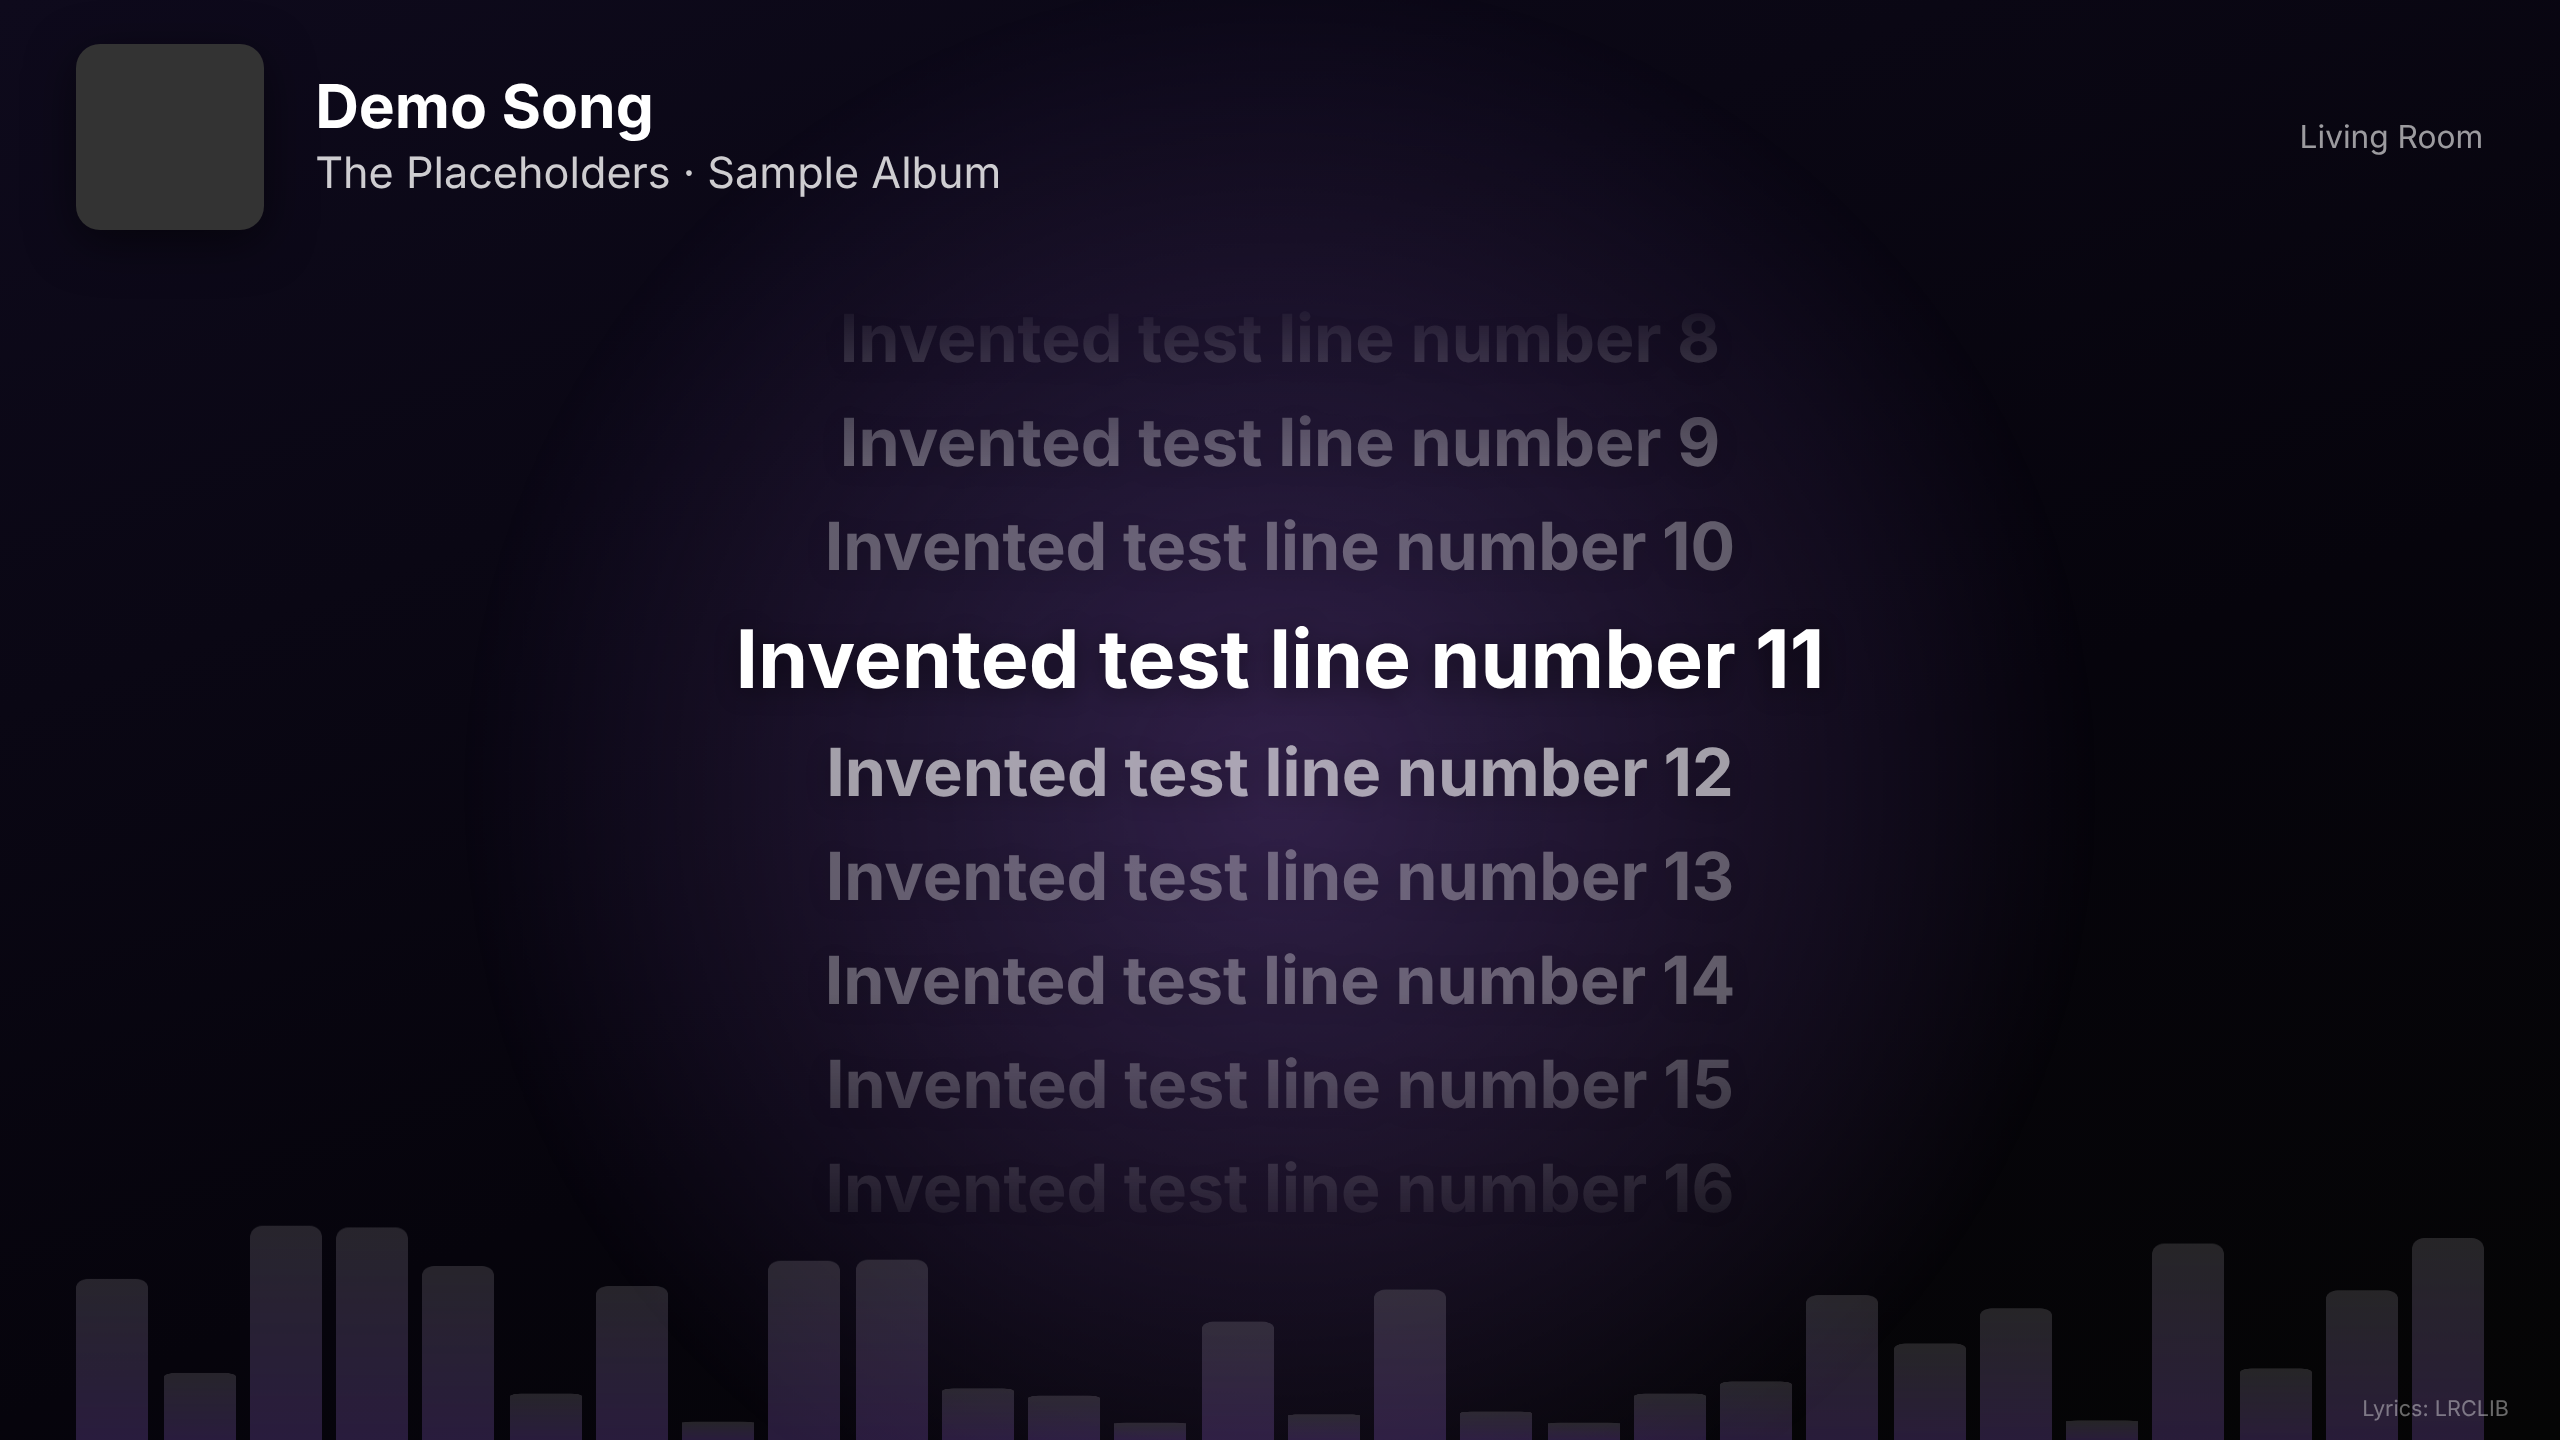
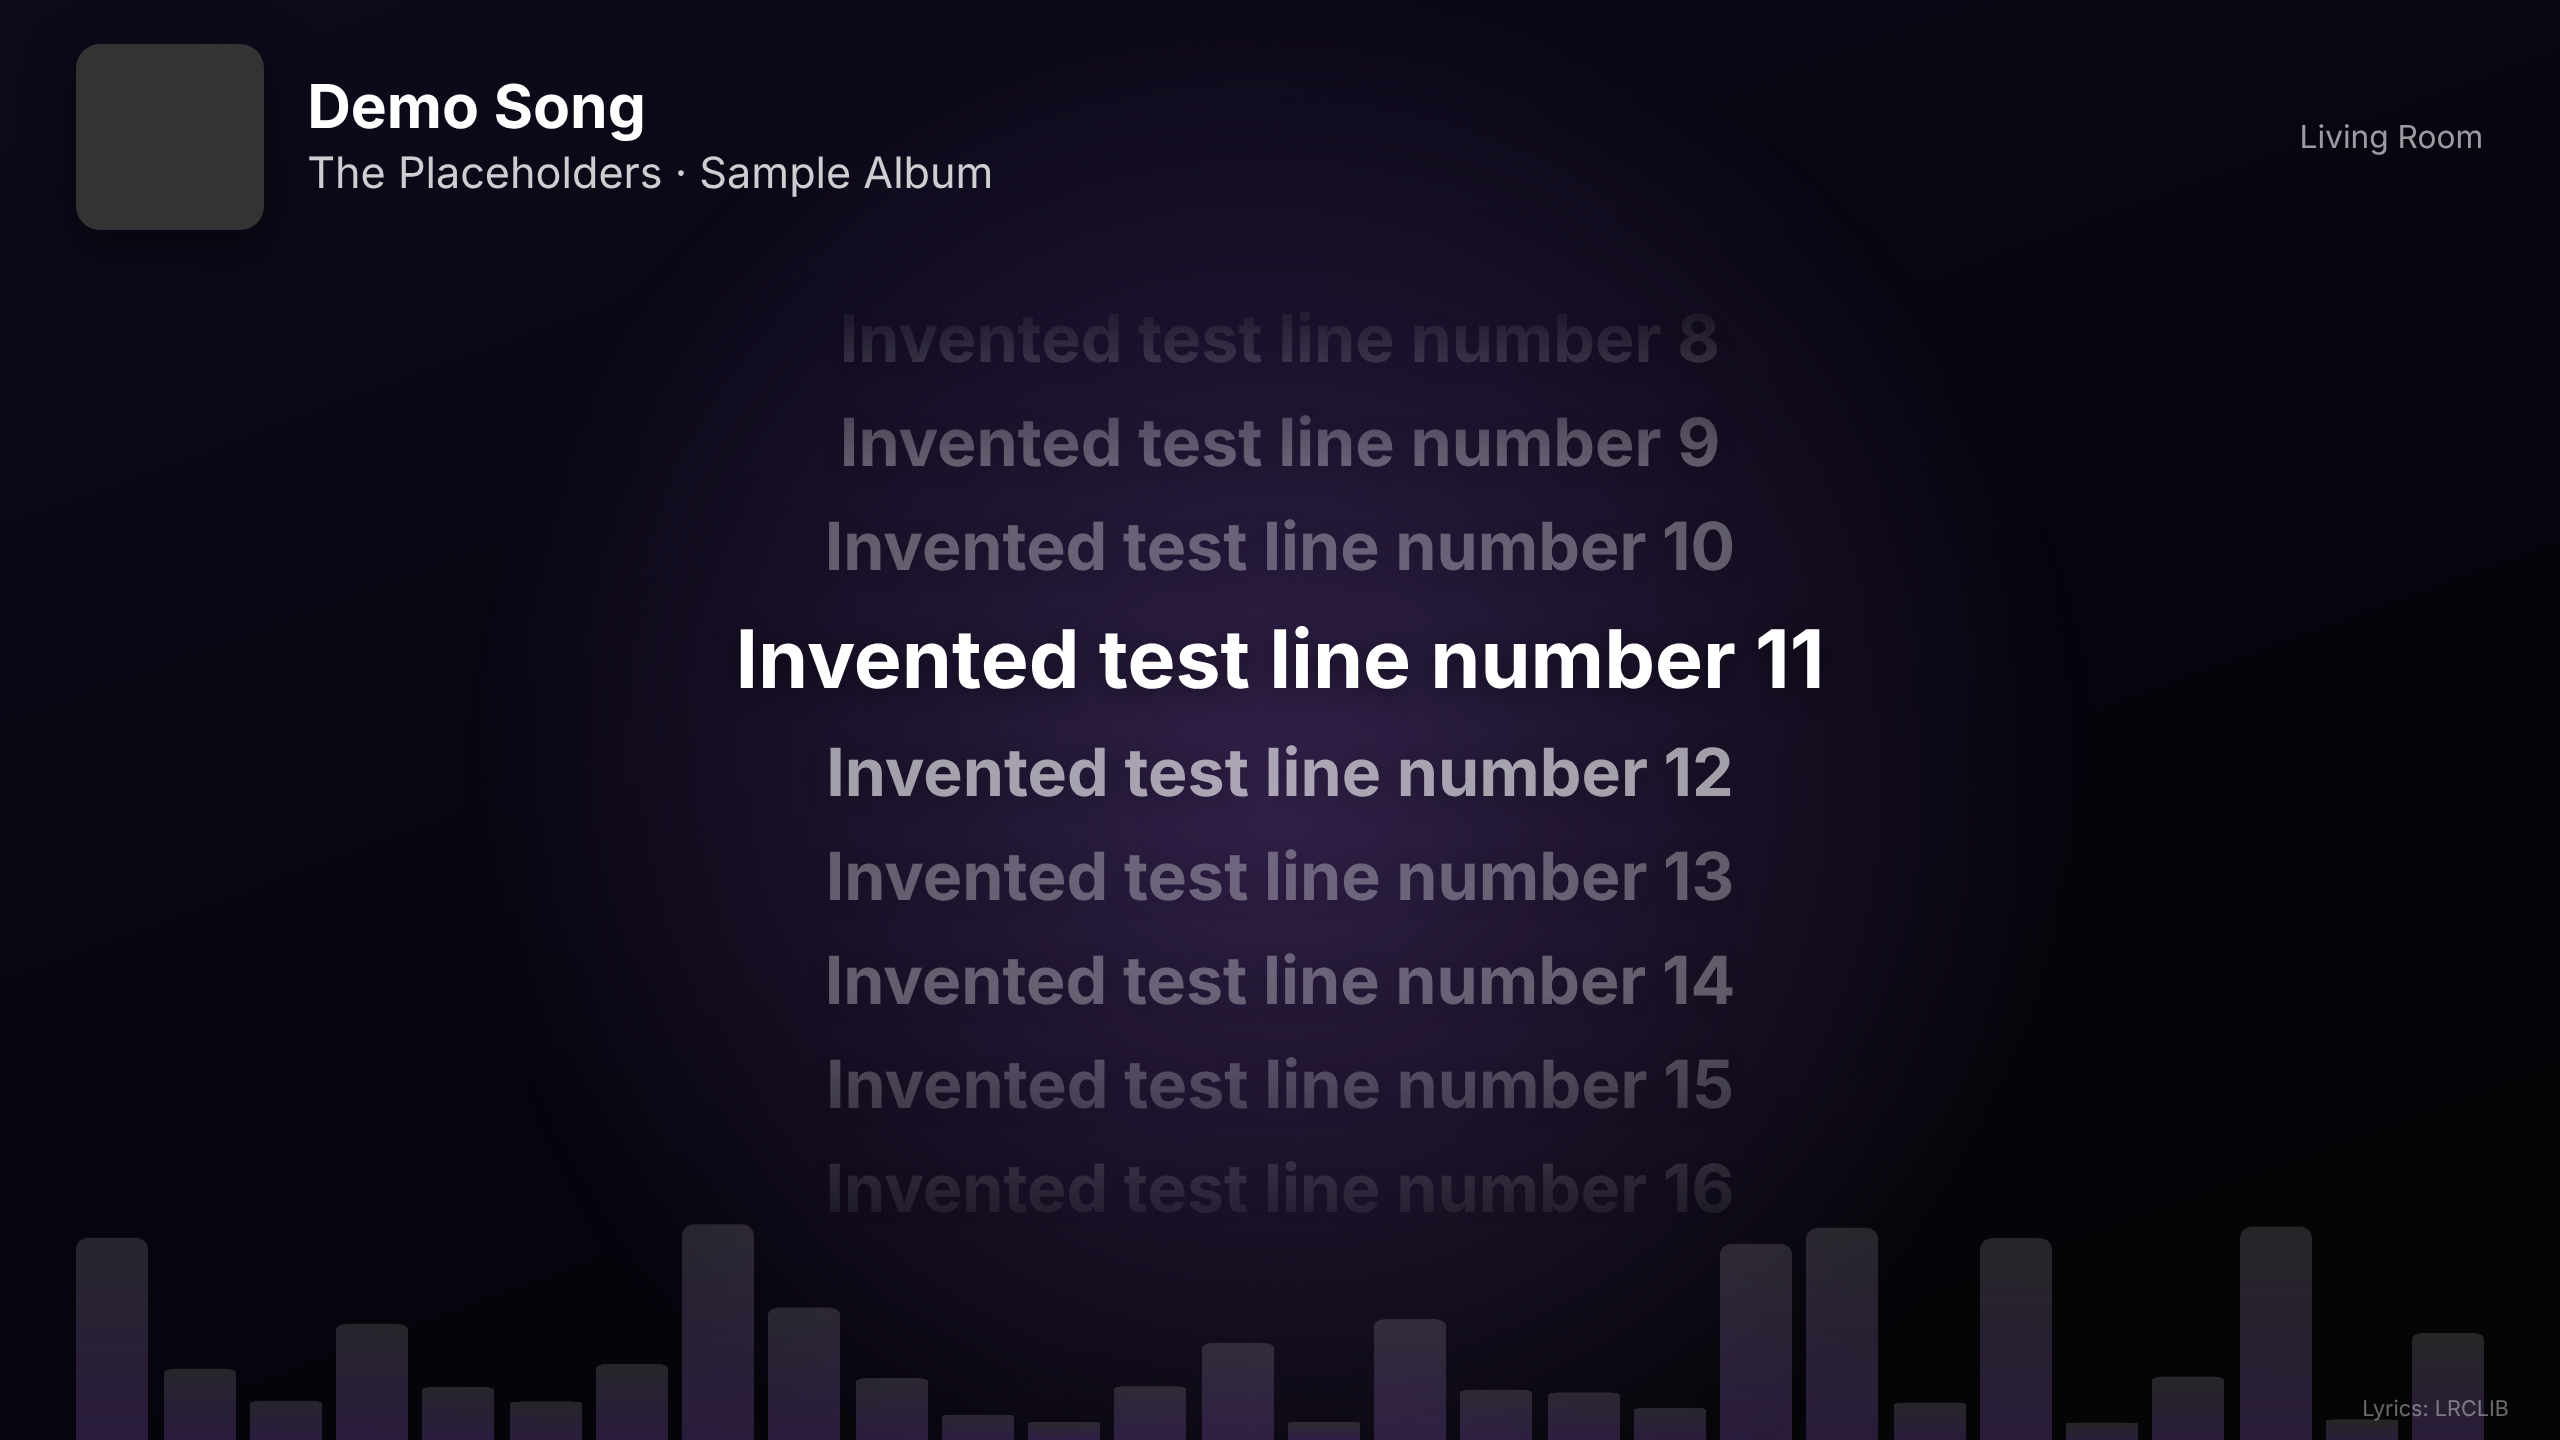
Fix layout on tall and narrow screens
Size text from the card's shorter side, clamp long titles, and let the
header set where the lyrics start so the two can't overlap.

Claude-Session: https://claude.ai/code/session_01TAVs71HgAkwueEpPGSQMh7

diff --git a/lyrics-party-card.js b/lyrics-party-card.js
@@ -143,8 +143,9 @@ class LyricsPartyCard extends HTMLElement {
     this._root.innerHTML = `
 <style>
   :host{display:block;height:100%;}
-  /* --vh, --vw and --vmax are 1% of the card itself, set by a ResizeObserver */
-  .wrap{--vh:1vh;--vw:1vw;--vmax:1vmax;--fs:1;position:relative;overflow:hidden;height:100vh;min-height:280px;color:#fff;
+  /* --vh is 1% of the card's shorter side, so tall phones don't get giant text.
+     --vw and --vmax are 1% of the card itself. A ResizeObserver sets all three. */
+  .wrap{--vh:1vmin;--vw:1vw;--vmax:1vmax;--fs:1;position:relative;overflow:hidden;display:flex;flex-direction:column;height:100vh;height:100dvh;min-height:280px;color:#fff;
     font-family:"Segoe UI",Roboto,Helvetica,Arial,sans-serif;background:#111;}
   .wrap.card{border-radius:var(--ha-card-border-radius,12px);}
   .bg{position:absolute;inset:0;transition:background 1.5s ease;}
@@ -160,12 +161,13 @@ class LyricsPartyCard extends HTMLElement {
   @keyframes bounce{0%{transform:scaleY(.08)}100%{transform:scaleY(1)}}
   .paused .bars i,.paused .glow{animation-play-state:paused;}
   .lite .glow{animation:none}.off .bars,.off .glow{display:none}
-  .head{position:absolute;top:calc(var(--vh)*3);left:calc(var(--vw)*3);right:calc(var(--vw)*3);display:flex;align-items:center;gap:calc(var(--vw)*2);z-index:2;}
+  .head{position:relative;flex:none;margin:calc(var(--vh)*3) calc(var(--vw)*3) calc(var(--vh)*4);display:flex;align-items:center;gap:calc(var(--vh)*3);z-index:2;}
+  .info{flex:1;min-width:0;}
   .art{width:calc(var(--vh)*13);height:calc(var(--vh)*13);border-radius:12px;background:#333 center/cover;box-shadow:0 6px 24px rgba(0,0,0,.5);flex:none;}
-  .title{font-size:calc(var(--vh)*4.2);font-weight:700;line-height:1.15;}
-  .artist{font-size:calc(var(--vh)*3);opacity:.8;margin-top:calc(var(--vh)*.4);}
-  .room{margin-left:auto;font-size:calc(var(--vh)*2.2);opacity:.6;text-align:right;}
-  .lyr{position:absolute;left:calc(var(--vw)*5);right:calc(var(--vw)*5);top:calc(var(--vh)*20);bottom:calc(var(--vh)*12);overflow:hidden;z-index:2;
+  .title{font-size:calc(var(--vh)*4.2);font-weight:700;line-height:1.15;display:-webkit-box;-webkit-box-orient:vertical;-webkit-line-clamp:2;overflow:hidden;}
+  .artist{font-size:calc(var(--vh)*3);opacity:.8;margin-top:calc(var(--vh)*.4);white-space:nowrap;overflow:hidden;text-overflow:ellipsis;}
+  .room{flex:none;max-width:30%;font-size:calc(var(--vh)*2.2);font-size:max(calc(var(--vh)*2.2),11px);opacity:.6;text-align:right;}
+  .lyr{position:relative;flex:1;min-height:0;margin:0 calc(var(--vw)*5) calc(var(--vh)*12);overflow:hidden;z-index:2;
     -webkit-mask-image:linear-gradient(transparent 0,#000 18%,#000 72%,transparent 100%);
     mask-image:linear-gradient(transparent 0,#000 18%,#000 72%,transparent 100%);}
   .track{transition:transform .6s cubic-bezier(.2,.7,.2,1);will-change:transform;}
@@ -175,12 +177,12 @@ class LyricsPartyCard extends HTMLElement {
   .ln.next{opacity:.6;}
   .plain .ln{opacity:.85;font-size:calc(var(--vh)*3.6*var(--fs));}
   .msg{position:absolute;left:0;right:0;top:45%;text-align:center;font-size:calc(var(--vh)*3.4);opacity:.75;z-index:2;}
-  .src{position:absolute;right:calc(var(--vw)*2);bottom:calc(var(--vh)*1.2);font-size:calc(var(--vh)*1.5);opacity:.4;z-index:2;}
+  .src{position:absolute;right:calc(var(--vw)*2);bottom:calc(var(--vh)*1.2);font-size:calc(var(--vh)*1.5);font-size:max(calc(var(--vh)*1.5),10px);opacity:.4;z-index:2;}
 </style>
 <div class="wrap">
   <div class="bg"></div><div class="glow"></div>
   <div class="bars">${bars}</div>
-  <div class="head"><div class="art"></div><div><div class="title"></div><div class="artist"></div></div><div class="room"></div></div>
+  <div class="head"><div class="art"></div><div class="info"><div class="title"></div><div class="artist"></div></div><div class="room"></div></div>
   <div class="lyr"><div class="track"></div></div>
   <div class="msg"></div>
   <div class="src">Lyrics: LRCLIB</div>
@@ -203,7 +205,7 @@ class LyricsPartyCard extends HTMLElement {
     const e = this._el, w = e.wrap.clientWidth, h = e.wrap.clientHeight;
     if (!w || !h) return;
     e.wrap.style.setProperty('--vw', w / 100 + 'px');
-    e.wrap.style.setProperty('--vh', h / 100 + 'px');
+    e.wrap.style.setProperty('--vh', Math.min(w, h) / 100 + 'px');
     e.wrap.style.setProperty('--vmax', Math.max(w, h) / 100 + 'px');
     this._center();
   }
@@ -225,7 +227,7 @@ class LyricsPartyCard extends HTMLElement {
     e.wrap.classList.toggle('lite', c.visuals === 'lite');
     e.wrap.classList.toggle('off', c.visuals === 'off');
     e.wrap.classList.toggle('card', card);
-    e.wrap.style.height = card ? String(c.height) : '100vh';
+    e.wrap.style.height = card ? String(c.height) : '';
     e.wrap.style.setProperty('--fs', +c.font_scale || 1);
   }
 
